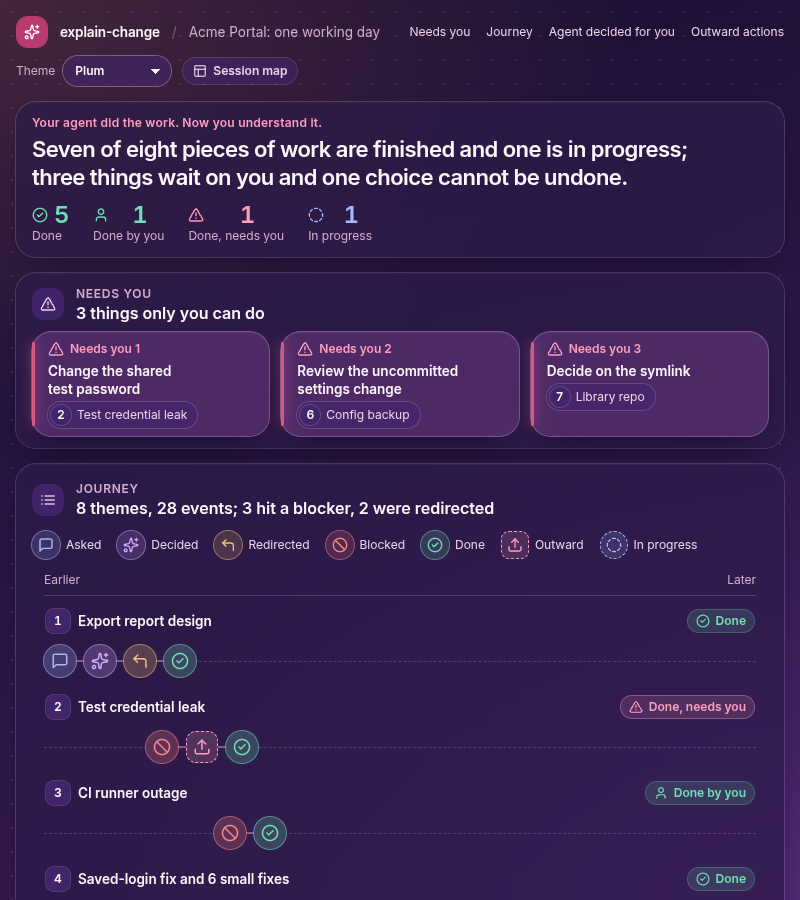
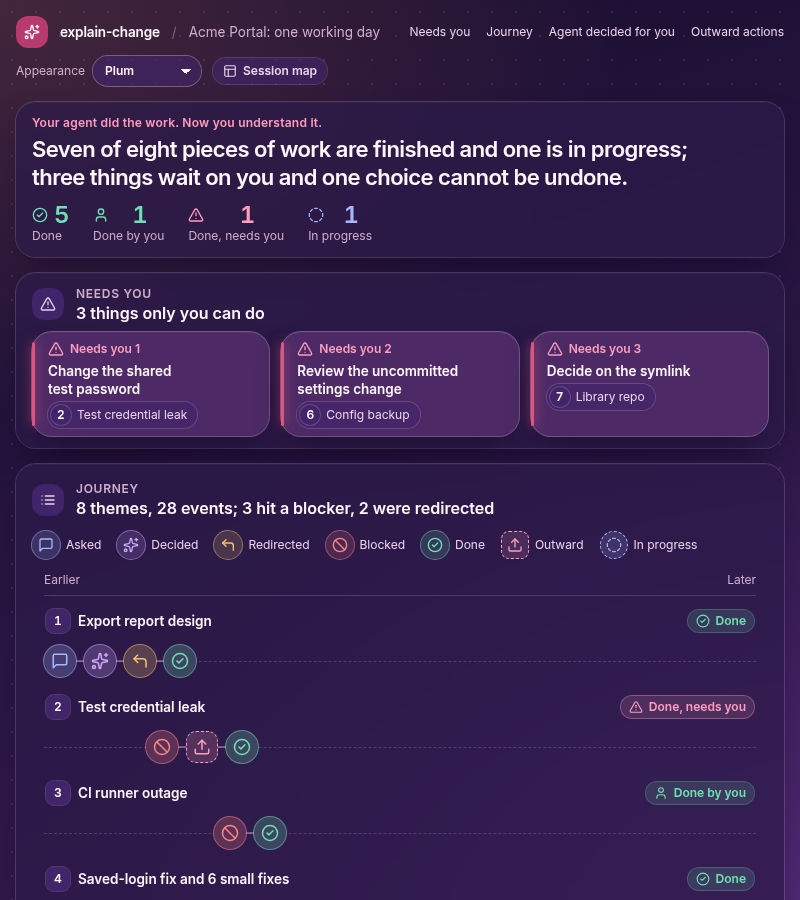
fix: learn secret labels inside longer names, wrap theme chips, rename the English picker to Appearance, name navy Xanh đêm

Changed region(s): [[0.1875, 0.0622, 0.4062, 0.0933], [0.0312, 0.0622, 0.1562, 0.1244]]

diff --git a/skills/explain-change/assets/ui/session.css b/skills/explain-change/assets/ui/session.css
@@ -48,9 +48,9 @@ h1.sum{font-size:22px;line-height:1.25;margin:var(--s2) 0 var(--s4);max-width:34
 .rev{color:var(--text-3)}
 .irrev{color:var(--bad);background:var(--bad-soft);box-shadow:0 0 0 1px rgba(var(--bad-rgb),.4)}
 .num-badge{display:inline-grid;place-items:center;min-width:24px;height:24px;padding:0 4px;border-radius:8px;background:var(--raised);box-shadow:0 0 0 1px var(--ring);font-size:var(--fs-sm);font-weight:600;font-variant-numeric:tabular-nums;color:var(--text);flex:none}
-.tchip{text-decoration:none;display:inline-flex;align-items:center;gap:6px;height:26px;padding:0 10px 0 3px;border-radius:var(--r-pill);background:var(--raised-a);box-shadow:0 0 0 1px var(--ring);font-size:var(--fs-sm);color:var(--text-2);max-width:100%;border:0;font-family:inherit}
-.tchip .num-badge{min-width:20px;height:20px;border-radius:999px;font-size:12px}
-.tchip span.t{min-width:0;overflow:hidden;text-overflow:ellipsis;white-space:nowrap}
+.tchip{text-decoration:none;display:inline-flex;align-items:center;gap:6px;min-height:26px;padding:3px 10px 3px 3px;border-radius:13px;background:var(--raised-a);box-shadow:0 0 0 1px var(--ring);font-size:var(--fs-sm);color:var(--text-2);max-width:100%;border:0;font-family:inherit}
+.tchip .num-badge{min-width:20px;height:20px;border-radius:999px;font-size:12px;flex:none}
+.tchip span.t{min-width:0;white-space:normal;overflow-wrap:anywhere;line-height:1.3}
 @media (hover:hover){.tchip:hover{background:rgba(var(--ring-rgb),.14)}}
 
 /* event kinds */

diff --git a/skills/explain-change/tests/test_themes.py b/skills/explain-change/tests/test_themes.py
@@ -172,13 +172,23 @@ class Head(unittest.TestCase):
         self.assertEqual(h.count("setAttribute('data-theme'"), 2)  # the head script and the picker; nothing else writes it
 
     def test_the_picker_is_a_labelled_native_select_with_every_theme(self):
-        for lang, label in (('en', 'Theme'), ('vi', 'Giao diện')):
+        for lang, label in (('en', 'Appearance'), ('vi', 'Giao diện')):
             d = sample()
             d['lang'] = lang
             h = page(d)
             self.assertRegex(h, r'<label class="picker"><span>%s</span><select id="skin"' % label)
             for tid in page_session.THEMES:
                 self.assertIn('<option value="%s"' % tid, h)
+
+    def test_english_never_calls_the_colour_scheme_a_theme_and_vietnamese_names_read_as_colours(self):
+        en, vi = STR2['en'], STR2['vi']
+        self.assertEqual(en['ses_theme_label'], 'Appearance')
+        self.assertEqual(vi['ses_theme_label'], 'Giao diện')
+        for tid in page_session.THEMES:
+            self.assertNotRegex(en['ses_theme_' + tid], r'(?i)theme')
+        self.assertNotRegex(en['ses_theme_label'], r'(?i)theme')
+        self.assertEqual([vi['ses_theme_' + t] for t in page_session.THEMES], ['Xanh đêm', 'Đại dương', 'Tím mận', 'Than chì', 'Ngọc trai (sáng)'])
+        self.assertNotIn('Hải quân', vi.values())
 
     def test_landmarks_and_the_nav_targets(self):
         h = page(sample())
@@ -277,6 +287,22 @@ class Dom(unittest.TestCase):
         self.assertEqual(r['navy'], 'rgb(245, 246, 255)')
         self.assertEqual(r['pearl'], 'rgb(28, 26, 59)')
         self.assertEqual(r['scheme'], 'light')
+
+    def test_a_long_theme_title_wraps_in_its_chip_and_is_never_cut(self):
+        d = sample()
+        long = 'Xoá mật khẩu bị lộ khỏi lịch sử git và đổi lại mọi khoá đã dùng ở các dịch vụ liên quan'
+        d['themes'][d['needs_you'][0]['theme'] and next(i for i, t in enumerate(d['themes']) if t['id'] == d['needs_you'][0]['theme'])]['title'] = long
+        probe = ("out.chips=qa('.tchip').map(c=>{const t=c.querySelector('.t'),cs=getComputedStyle(t);return {text:t.textContent.length,sw:c.scrollWidth,cw:c.clientWidth,tsw:t.scrollWidth,tcw:t.clientWidth,"
+                 "th:t.getBoundingClientRect().height,lh:parseFloat(cs.lineHeight)||0,over:cs.textOverflow,ws:cs.whiteSpace}})")
+        for width in (1440, 800):
+            r = self.run_dom(d, probe, width=width)
+            long_chips = [c for c in r['chips'] if c['text'] >= 60]
+            self.assertTrue(long_chips, 'the fixture has a chip with a 60+ character title')
+            for c in long_chips:
+                self.assertLessEqual(c['sw'], c['cw'], c)
+                self.assertLessEqual(c['tsw'], c['tcw'], c)
+                self.assertNotEqual(c['over'], 'ellipsis', c)
+                self.assertNotEqual(c['ws'], 'nowrap', c)
 
     OPEN = ("const cl=$('.mk.cl');cl.focus();cl.click();"
             "const st=()=>({pressed:qa('.mk[aria-pressed=true]').length,focusOn:document.activeElement===cl,clPressed:cl.getAttribute('aria-pressed'),def:!!$('.empty-panel.on'),tp:qa('.tp.on').length});")

diff --git a/skills/explain-change/tests/red_check.py b/skills/explain-change/tests/red_check.py
@@ -585,10 +585,22 @@ MUTATIONS += [
      'test_outward.AfterAHeredoc.test_a_shift_in_arithmetic_is_not_a_heredoc'),
     ('session fix: a top-level << inside $(( )) is a shift', 'scripts/lib/outward.py', "            elif text.startswith('<<', i) and not text.startswith('<<<', i) and i >= arith:", "            elif text.startswith('<<', i) and not text.startswith('<<<', i):",
      'test_outward.AfterAHeredoc.test_a_shift_in_arithmetic_is_not_a_heredoc'),
-    ('learn: a label inside a CSS name (--mk:, .mk:) is not a label', TR, '|(?<![\\w.-])mk|', '|mk|',
+    ('learn: a label inside a CSS name (--mk:, .mk:) is not a label', TR, "    return not code_shaped(m.group('val')) and not _css_name(m)", "    return not code_shaped(m.group('val'))",
      V3 + 'LearnedValues.test_a_label_inside_a_css_name_is_not_a_label'),
-    ('learn: a label after a space still teaches', TR, '|(?<![\\w.-])mk|', '|(?<![\\s\\S])mk|',
+    ('learn: a custom property needs its ; or } to be CSS', TR, "        return bool(re.search(r'[;}]', v))", '        return True',
+     V3 + 'LearnedValues.test_a_label_in_a_longer_name_or_a_flag_still_teaches'),
+    ('learn: a dotted config key (user.mk: x) is not a selector', TR, "        return bool(_PSEUDO.match(v))", '        return True',
+     V3 + 'LearnedValues.test_a_label_in_a_longer_name_or_a_flag_still_teaches'),
+    ('learn: mk after a word, _ - or a flag still teaches', TR, "|mk|", "|(?<![\\w.-])mk|",
+     V3 + 'LearnedValues.test_a_label_in_a_longer_name_or_a_flag_still_teaches'),
+    ('learn: a label after a space still teaches', TR, "|mk|", "|(?<![\\s\\S])mk|",
      V3 + 'LearnedValues.test_a_label_after_a_space_or_punctuation_still_teaches'),
+    ('themes: a long theme title wraps in its chip', 'assets/ui/session.css', 'white-space:normal;overflow-wrap:anywhere;line-height:1.3}', 'overflow:hidden;text-overflow:ellipsis;white-space:nowrap}',
+     'test_themes.Dom.test_a_long_theme_title_wraps_in_its_chip_and_is_never_cut'),
+    ('themes: the English picker is not called Theme', 'scripts/lib/i18n2.py', "'ses_theme_label': 'Appearance'", "'ses_theme_label': 'Theme'",
+     'test_themes.Head.test_english_never_calls_the_colour_scheme_a_theme_and_vietnamese_names_read_as_colours'),
+    ('themes: the navy theme is not the military navy', 'scripts/lib/i18n2.py', "'ses_theme_navy': 'Xanh đêm'", "'ses_theme_navy': 'Hải quân'",
+     'test_themes.Head.test_english_never_calls_the_colour_scheme_a_theme_and_vietnamese_names_read_as_colours'),
     ('themes: the picker applies the pick', JS, "    root.setAttribute('data-theme',skin.value);\n", '',
      'test_themes.Dom.test_the_picker_applies_the_pick_and_stores_it'),
     ('themes: the picker stores the pick', JS, "try{localStorage.setItem('explain-change-theme',skin.value)}catch(e){}", '',

diff --git a/skills/explain-change/scripts/lib/transcript.py b/skills/explain-change/scripts/lib/transcript.py
@@ -19,8 +19,8 @@ STRONG = re.compile(r'(?i)(?<![\w-])(vitest|pytest|unittest|phpunit|artisan test
                     r'composer (test|lint)|(go|cargo|make|mix|dotnet|gradle|mvn) (test|check)|docker (compose )?build|glab ci|pipelines?|red_check|prove[_-]fix|check\.mjs)(?![\w-])')
 INLINE = re.compile(r'<<-?\s*[\'"]?\w|(?<![\w-])(python3?|node|ruby|perl|php|bash|sh)\s+(-c|-e|-r)\b|(?<![\w-])python3?\s+-(\s|$)')  # a heredoc or an inline script
 READ_ONLY = re.compile(r'^\s*(cd [^;&|]+(&&|;)\s*)?(git (show|log|ls-tree|diff|grep|fetch|status|branch|worktree)|grep|sed|cat|head|tail|ls|find|wc|echo|date|mkdir)\b')
-# `mk` (short for "mật khẩu") also names CSS (`--mk:`, `.mk:hover`), so it needs a boundary other than - _ . before it; the longer labels keep matching in db_password= and --token=
-_LABEL = r'(?<![A-Za-z0-9])(?:pass(?:word|wd)?|mật khẩu|(?<![\w.-])mk|token|secret|api[_-]?key)(?:\s+chung)?\s*[:=]\s*'
+# `mk` (short for "mật khẩu") also names CSS (`--mk:32px;`, `.mk:hover`): _css_name() tells those apart by shape, so tk_mk:, user.mk: and --mk= still teach
+_LABEL = r'(?<![A-Za-z0-9])(?:pass(?:word|wd)?|mật khẩu|mk|token|secret|api[_-]?key)(?:\s+chung)?\s*[:=]\s*'
 SECRET = re.compile(  # a labelled value | a token with a known prefix | a bearer token
     r'(?i)(?P<label>' + _LABEL + r')(?=\S*[\d!@#$%^&*_])(?P<val>\S{6,})'
     r'|(?<![A-Za-z0-9])(?P<pre>glpat-|ghp_|sk-)(?P<tok>[\w-]{8,})|(?P<bpre>Bearer\s+)(?P<btok>[\w.~+/=-]{8,})')
@@ -328,8 +328,27 @@ def code_shaped(v):
     return bool(re.search(r'[.(\[]', v)) or not re.search(r'\d', v)
 
 
+_PSEUDO = re.compile(r'[a-z][a-z-]*(?:\([^)]*\))?(?:[{,\s>+~:.\[)]|$)')
+
+
+def _css_name(m):
+    """True when a labelled match is CSS, not a credential: a custom property `--mk:32px;` (no space, the value ends in ; or }) or a selector `.mk:hover` /
+    `a.mk:nth-child(2)` (a pseudo-class right after the colon). `--mk=`, `user.mk: x` and `tk_mk:` are not CSS. When unsure, it is a credential."""
+    s, lab = m.string, m.group('label')
+    if not lab.lower().startswith('mk') or not lab.endswith(':'):  # a space after the colon is a config key, not CSS
+        return False
+    before, v = s[:m.start('label')], m.group('val')
+    if before.endswith('--') and not re.search(r'\w$', before[:-2]):
+        return bool(re.search(r'[;}]', v))
+    if before.endswith('.'):
+        return bool(_PSEUDO.match(v))
+    return False
+
+
 def _flagged(m):
-    return m.group('val') is None or not code_shaped(m.group('val'))
+    if m.group('val') is None:
+        return True
+    return not code_shaped(m.group('val')) and not _css_name(m)
 
 
 def has_secret(s):

diff --git a/skills/explain-change/scripts/lib/i18n2.py b/skills/explain-change/scripts/lib/i18n2.py
@@ -73,7 +73,7 @@ STR2 = {
         'ses_scratch': 'Ngoài ra %d lần dọn thư mục tạm (scratch), không liệt kê',
         'ses_dec_rev_n': '%d lựa chọn hoàn tác được',
         'ses_nav_label': 'Các phần của trang', 'ses_theme_label': 'Giao diện',
-        'ses_theme_navy': 'Hải quân', 'ses_theme_ocean': 'Đại dương', 'ses_theme_plum': 'Tím mận', 'ses_theme_graphite': 'Than chì', 'ses_theme_pearl': 'Ngọc trai (sáng)',
+        'ses_theme_navy': 'Xanh đêm', 'ses_theme_ocean': 'Đại dương', 'ses_theme_plum': 'Tím mận', 'ses_theme_graphite': 'Than chì', 'ses_theme_pearl': 'Ngọc trai (sáng)',
         'ses_panel': 'Bảng bên', 'ses_close': 'Đóng bảng', 'ses_journey_h': 'Hành trình',
         'ses_empty': 'Chọn một chủ đề hoặc một mốc để đọc hành trình của nó ở đây.',
         'ses_cl': '%d mốc gộp lại: chọn để đọc trong bảng', 'ses_cl_note': 'Mốc %d đến %d trong %d mốc của chủ đề này.',
@@ -155,7 +155,7 @@ STR2 = {
         'ses_o_other': '%d other outward actions', 'ses_o_other_1': '1 other outward action',
         'ses_scratch': 'Also %d cleanups of temp folders (scratch), not listed', 'ses_scratch_1': 'Also 1 cleanup of a temp folder (scratch), not listed',
         'ses_dec_rev_n': '%d reversible choices', 'ses_dec_rev_n_1': '1 reversible choice',
-        'ses_nav_label': 'Page sections', 'ses_theme_label': 'Theme',
+        'ses_nav_label': 'Page sections', 'ses_theme_label': 'Appearance',
         'ses_theme_navy': 'Navy', 'ses_theme_ocean': 'Ocean', 'ses_theme_plum': 'Plum', 'ses_theme_graphite': 'Graphite', 'ses_theme_pearl': 'Pearl (light)',
         'ses_panel': 'Side panel', 'ses_close': 'Close panel', 'ses_journey_h': 'Journey',
         'ses_empty': 'Select a theme or a marker to read its journey here.',

diff --git a/skills/explain-change/tests/test_v3.py b/skills/explain-change/tests/test_v3.py
@@ -487,10 +487,19 @@ class LearnedValues(V2Case):
             self.assertEqual(transcript.secret_values('token: ' + v + ' ;'), set(), v)
         self.assertTrue(transcript.secret_values('token: Abc12345'))  # a bare word with a digit can be a real password
 
+    CSS_FORMS = ('--mk:32px', 'a{--mk:32px;--mk-gap:8px}', '--mk:32px;--mk-gap:8px', '.mk:hover', 'a.mk:hover{top:1px}', '.mk:nth-child(2)', 'a--mk:32px')
+    SECRET_FORMS = ('tk_mk: hunter2xyz', 'tk-mk: hunter2xyz', 'my_mk=hunter2xyz', 'MY_MK=hunter2xyz', 'user.mk: hunter2xyz', 'login.mk=hunter2xyz',
+                    '--mk=hunter2xyz', '-mk=hunter2xyz', '\u01a1mk: hunter2xyz', 'mk: hunter2xyz', '--mk: hunter2xyz', 'a.mk: "hunter2xyz"', '--mk:hunter2xyz', 'user.mk:hunter2xyz')
+
     def test_a_label_inside_a_css_name_is_not_a_label(self):
-        for css in ('--mk:32px;--mk-gap:8px', '.mk:hover', 'a{--mk:32px;--mk-gap:8px}', 'x.mk:hover{top:1px}', 'a--mk:32px'):
+        for css in self.CSS_FORMS:
             self.assertEqual(transcript.secret_values(css), set(), css)
             self.assertFalse(transcript.has_secret(css), css)
+
+    def test_a_label_in_a_longer_name_or_a_flag_still_teaches(self):
+        for text in self.SECRET_FORMS:
+            self.assertIn('hunter2xyz', transcript.secret_values(text), text)
+            self.assertTrue(transcript.has_secret(text), text)
 
     def test_a_label_after_a_space_or_punctuation_still_teaches(self):
         for text, v in (('mk: hunter2xyz', 'hunter2xyz'), ('mật khẩu: hunter2xyz', 'hunter2xyz'), ('password=hunter2xyz', 'hunter2xyz'),

diff --git a/skills/explain-change/DESIGN.md b/skills/explain-change/DESIGN.md
@@ -144,10 +144,10 @@ Case: Improve, scope Refresh. The page exists and the user likes its look ("màu
 | Hard-coded colours | every literal in the rules became a property: `--glow-a/-b` (body glows), `--ok-rgb`, `--accent-rgb`, `--bad-rgb`, `--ui-rgb`, `--ring-rgb` (used as `rgba(var(--x-rgb),a)`), `--on-fill` (white on fills), `--kdot-ring` and `--mk-ring` (ring strength; pearl 85%). A test fails on any `#hex` or `rgba(` outside `:root` and the theme blocks |
 | Navy fidelity | computed colour, background, shadow and border of 56 selectors compared old and new on the sample page: no difference except elements that moved (first `.dec`, the lane that is no longer pre-selected) and new ones |
 | Contrast (measured from the tokens, `tests/test_themes.py`) | min text / min status text / min ring: navy 4.98 / 4.87 / 3.32, ocean 6.07 / 4.85 / 3.29, plum 5.75 / 4.87 / 3.26, graphite 4.85 / 4.77 / 3.41, pearl 5.59 / 5.20 / 4.73. White on the accent and green fills is 4.79 or more in every theme. Text is measured on the surface, raised, highlight and the page gradient; a status ring is its colour at the ring alpha over the surface |
-| Picker | a native `<select>` labelled "Giao diện" / "Theme" in the header (visible text, keyboard and screen reader for free); hidden without JS because it would do nothing |
+| Picker | a native `<select>` labelled "Giao diện" / "Appearance" in the header (visible text, keyboard and screen reader for free); hidden without JS because it would do nothing |
 | Storage and first paint | key `explain-change-theme`. A script in `<head>`, before the style and the body, sets `data-theme` from the stored value (only if it is a known id) or the baked default; the read and the write sit in `try/catch`, so a blocked storage keeps the default and raises nothing |
 | `--theme ID` | sets the baked default (`<html data-theme>` and the selected option); an unknown id exits 1 with one line naming the valid ids |
-| The attribute name | the page already used `data-theme` for the links to a lane (a work theme); those are now `data-lane`, so `html[data-theme]` means the colour theme only. Both are called "theme" in the page copy only where the picker says "Theme" |
+| The attribute name | the page already used `data-theme` for the links to a lane (a work theme); those are now `data-lane`, so `html[data-theme]` means the colour theme only. In English the page copy keeps "theme" for the lane and calls the colour scheme "Appearance"; Vietnamese says "Giao diện" |
 | Layout | band: summary with a count per status (the per-theme segments repeated each lane's status chip) next to Needs you in three columns. Below: lanes (210 px name column, 56 px rows) and a 380 px panel. 8 lanes fit a 1440 x 900 screen. The panel's default view holds Decided (irreversible choices always listed, reversible ones in an accordion) and Outward (accordion, open). Under 1000 px the band stacks and the panel goes under the selected lane, or at the end when none is selected |
 | Landmarks | `header` (brand, title, nav, picker), `nav` (links to Needs you, Journey, Decided, Outward: the last two live in the panel, so a link to them closes the open theme first), `main` |
 | Tap targets at 390 px | nav links, the picker and the accordion summary are 44 px there; the 32 px markers stay (the user asked for large markers on a desktop-first page) |

diff --git a/skills/explain-change/SKILL.md b/skills/explain-change/SKILL.md
@@ -96,6 +96,6 @@ python3 $S/scripts/render.py session.json --transcript <file> --text
 
 `render.py` writes `index.html` next to the doc, plus one page per `change_doc`, and prints the page path last. The page shows no code, diff or file:line, and it has no risks and no quiz. Done when `validate.py` prints `ok` and you hold the page path.
 
-`render.py --theme <id>` sets the colour theme the session page opens in: `navy` (the default), `ocean`, `plum`, `graphite` or `pearl` (light). An unknown id exits 1 with one line naming the valid ids. The reader can switch theme with the "Theme" picker in the page header; the pick is kept in the browser's `localStorage`. The flag changes the session page only; the change pages keep their own look.
+`render.py --theme <id>` sets the colour theme the session page opens in: `navy` (the default), `ocean`, `plum`, `graphite` or `pearl` (light). An unknown id exits 1 with one line naming the valid ids. The reader can switch the colour scheme with the "Appearance" picker in the page header; the pick is kept in the browser's `localStorage`. The flag changes the session page only; the change pages keep their own look.
 
 Docs with `version` absent or 1 still validate and render with the older report page (`references/explain-schema.md`, top part).

diff --git a/README.md b/README.md
@@ -144,7 +144,7 @@ After a long session, one task or many, ask for "explain this session". The agen
 
 #### Colour themes
 
-The session page comes in five colour themes: navy (the default), ocean, plum, graphite and pearl (light). The reader picks one with the "Theme" control in the header and the page remembers it; `render.py --theme <id>` sets the theme the page opens in. Every theme keeps the text at 4.5:1 or better and the marker rings at 3:1 or better.
+The session page comes in five colour themes: navy (the default), ocean, plum, graphite and pearl (light). The reader picks one with the "Appearance" control in the header and the page remembers it; `render.py --theme <id>` sets the theme the page opens in. Every theme keeps the text at 4.5:1 or better and the marker rings at 3:1 or better.
 
 | navy | ocean | plum |
 | --- | --- | --- |
